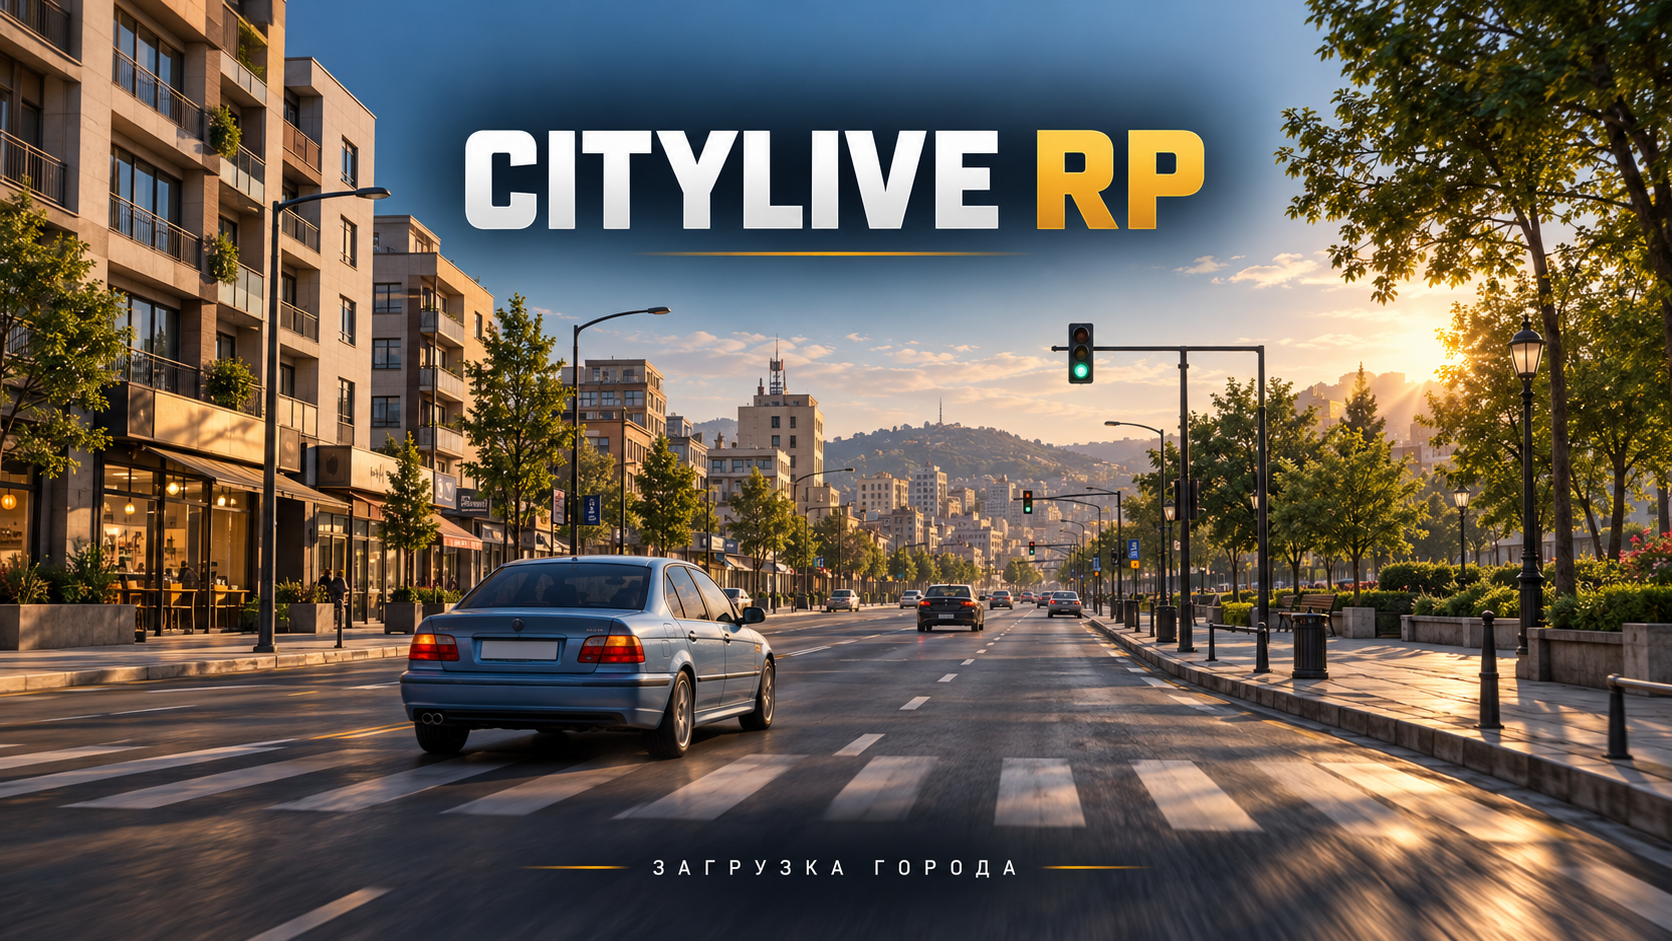
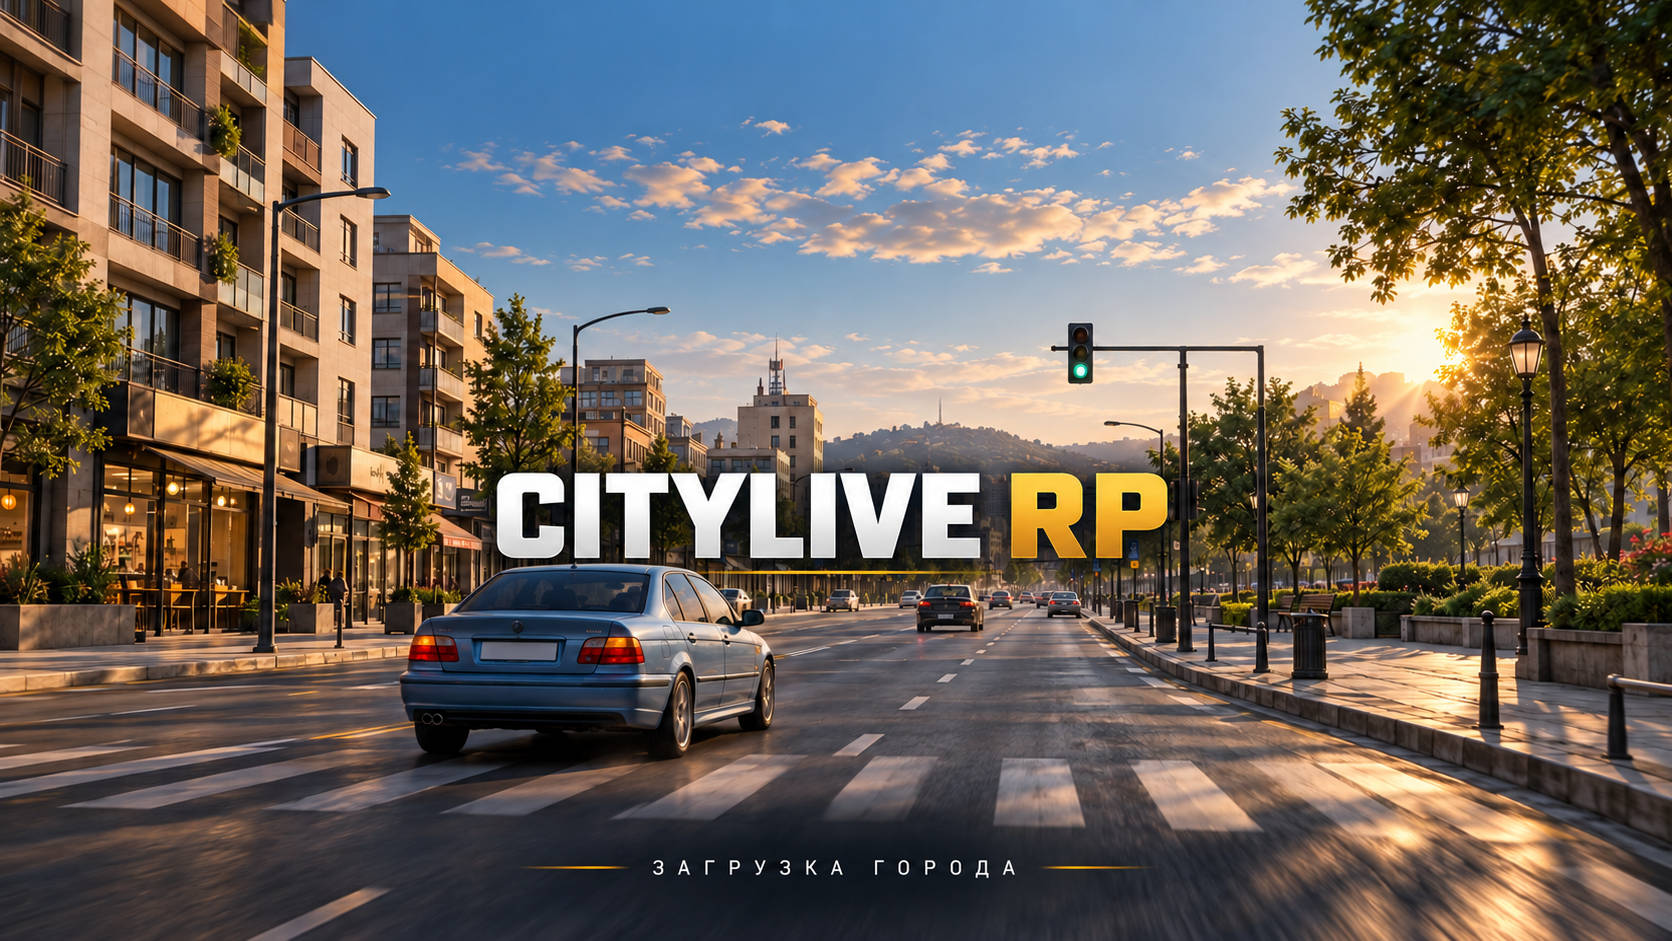
Polish launch title, proportional city steering and ambient lighting for Android 1.2.1

diff --git a/Scripts/UpdatePoliceDistrictLighting.py b/Scripts/UpdatePoliceDistrictLighting.py
@@ -1,0 +1,50 @@
+"""Update existing city lighting without reimporting geometry or materials."""
+import gc
+import json
+import os
+from pathlib import Path
+import re
+import sys
+import unreal
+sys.path.insert(0,str(Path(__file__).parent))
+from PoliceDistrictLighting import configure_sun, configure_sky, REVISION
+
+project=Path(unreal.Paths.convert_relative_path_to_full(unreal.Paths.project_dir()))
+token=os.environ['CITYLIVE_POLISH_TOKEN']
+if not re.fullmatch(r'[0-9_]+',token):raise RuntimeError('Invalid update token')
+path=(project/'Saved/ModernCityMap.txt').read_text(encoding='utf-8').strip()
+state_file=project/'Saved/CityV11.json'
+state=json.loads(state_file.read_text(encoding='utf-8'))
+if state.get('source')!='PoliceDistrict' or state.get('map')!=path or not re.fullmatch(r'/Game/CityLiveMaps/ModernCity/Run_[0-9_]+/CityLive_ModernCity',path):
+    raise RuntimeError('Install the new district using ImportPoliceDistrict.cmd first')
+ini=project/'Config/DefaultEngine.ini'
+config=ini.read_text(encoding='utf-8')
+for key in ('GameDefaultMap','EditorStartupMap'):
+    pattern=r'^'+key+r'=[^\r\n]*'
+    if len(re.findall(pattern,config,flags=re.MULTILINE))!=1:raise RuntimeError('Missing startup key '+key)
+    config=re.sub(pattern,key+'='+path+'.CityLive_ModernCity',config,flags=re.MULTILINE)
+backup=path.rsplit('/',1)[0]+'/CityLive_BeforePolish_'+token
+library=unreal.EditorAssetLibrary
+copy=library.duplicate_asset(path,backup)
+if not copy or not library.save_loaded_asset(copy,only_if_is_dirty=False):raise RuntimeError('Cannot back up city')
+del copy
+gc.collect()
+levels=unreal.get_editor_subsystem(unreal.LevelEditorSubsystem)
+if not levels.load_level(path):raise RuntimeError('Cannot load active city')
+actors=unreal.get_editor_subsystem(unreal.EditorActorSubsystem).get_all_level_actors()
+suns=[a for a in actors if isinstance(a,unreal.DirectionalLight)]
+skies=[a for a in actors if isinstance(a,unreal.SkyLight)]
+if not suns or not skies:raise RuntimeError('City lights missing')
+for a in suns:configure_sun(a.light_component)
+for a in skies:
+    configure_sky(a.light_component)
+    a.light_component.recapture_sky()
+if not levels.save_current_level():raise RuntimeError('Cannot save lighting')
+ini.write_text(config,encoding='utf-8')
+state['lighting_revision']=REVISION
+state['lighting_backup']=backup
+temporary=state_file.with_suffix('.tmp');temporary.write_text(json.dumps(state,indent=2),encoding='utf-8');temporary.replace(state_file)
+folder=project/'Saved/PoliceDistrictPolish'/token
+folder.mkdir(parents=True,exist_ok=True)
+(folder/'complete.ok').write_text(path,encoding='utf-8')
+unreal.log('CITYLIVE_LIGHTING_READY shadows=enabled ambient=2.2')

diff --git a/Scripts/ImportPoliceDistrict.py b/Scripts/ImportPoliceDistrict.py
@@ -14,6 +14,7 @@ from PoliceDistrictPolicy import validate_package, package_file, imported_kind
 from CityPbrMaterials import build_materials, assign_materials
 from CitySpawnSearch import find_open_spawn
 from CityMobileSky import install_mobile_sky
+from PoliceDistrictLighting import configure_sun, configure_sky, REVISION
 
 
 def atomic(path,text):
@@ -130,14 +131,16 @@ def main():
     world.get_world_settings().set_editor_property('default_game_mode',mode)
     sun=actors.spawn_actor_from_class(unreal.DirectionalLight,unreal.Vector(0,0,6000),unreal.Rotator(-38,-35,0))
     sun.light_component.set_editor_property('mobility',unreal.ComponentMobility.MOVABLE)
-    sun.light_component.set_editor_property('intensity',10.0)
+    configure_sun(sun.light_component)
     sky=actors.spawn_actor_from_class(unreal.SkyLight,unreal.Vector(0,0,5000))
     sky.light_component.set_editor_property('mobility',unreal.ComponentMobility.MOVABLE)
     sky.light_component.set_editor_property('real_time_capture',False)
+    configure_sky(sky.light_component)
     install_mobile_sky(root,actors)
     sky.light_component.recapture_sky()
     if not levels.save_current_level():raise RuntimeError('Cannot save district map')
     summary={'version':'1.1.2','graphics_baseline':'v1','mobile_sky':True,'map':map_path,
+             'lighting_revision':REVISION,
              'baseline_map':map_path,'previous_map':previous['map'],'source':'PoliceDistrict',
              'package_hash':hashlib.sha256((package/'manifest.json').read_bytes()).hexdigest(),
              'source_hash':manifest['source_blend_sha256'],'triangles':manifest['triangles']}

diff --git a/Source/CityLiveRP/CitySedanDynamics.h b/Source/CityLiveRP/CitySedanDynamics.h
@@ -22,12 +22,15 @@ constexpr float DirectionChangeSpeed = 10.f;
 inline float YawRateRadians(float Steering, float Speed)
 {
     constexpr float DegreesToRadians = .01745329252f;
-    const float LowSpeedRate = std::clamp(Steering, -1.f, 1.f) * 55.f * DegreesToRadians *
+    const float LowSpeedRate = 65.f * DegreesToRadians *
         std::clamp(Speed / 350.f, -1.f, 1.f);
-    // Bound requested lateral acceleration to about 0.6 g. A fixed yaw rate
-    // at top speed asks for several g and makes grip and steering fight.
-    const float Limit = 600.f / std::max(std::abs(Speed), 350.f);
-    return std::clamp(LowSpeedRate, -Limit, Limit);
+    // Allow slightly tighter urban turns, tapering back to the original 0.6 g
+    // bound at top speed so grip and steering do not fight.
+    const float HighwayBlend = std::clamp((std::abs(Speed) - 1500.f) / 1500.f, 0.f, 1.f);
+    const float Limit = (680.f - 80.f * HighwayBlend) / std::max(std::abs(Speed), 350.f);
+    // Apply the stick after the speed limit: a small touch stays a small turn,
+    // instead of reaching full cornering force prematurely at high speed.
+    return std::clamp(Steering, -1.f, 1.f) * std::clamp(LowSpeedRate, -Limit, Limit);
 }
 inline float AdvanceSpeed(float Speed, bool DriverPresent, bool Throttle, bool Brake, float DeltaTime)
 {

diff --git a/Tests/CitySedanDynamicsTest.cpp b/Tests/CitySedanDynamicsTest.cpp
@@ -9,12 +9,17 @@ int main()
     for (float Speed : {0.f, 100.f, 350.f, 1000.f, 2000.f, 3000.f, -400.f})
     {
         const float Rate = CityLiveDriving::YawRateRadians(1.f, Speed);
-        assert(std::abs(Rate * Speed) <= 600.01f);
+        assert(std::abs(Rate * Speed) <= 680.01f);
         assert(std::abs(Rate + CityLiveDriving::YawRateRadians(-1.f, Speed)) < .0001f);
         assert(CityLiveDriving::YawRateRadians(0.f, Speed) == 0.f);
         assert(Rate * Speed >= 0.f);
     }
     assert(CityLiveDriving::YawRateRadians(1.f, 3000.f) < CityLiveDriving::YawRateRadians(1.f, 1000.f));
+    assert(std::abs(CityLiveDriving::YawRateRadians(1.f, 3000.f)*3000.f) <= 600.01f);
+    assert(CityLiveDriving::YawRateRadians(1.f,350.f) > 1.1f);
+    for (float Speed : {-400.f,350.f,1000.f,3000.f})
+        assert(std::abs(CityLiveDriving::YawRateRadians(.1f,Speed) -
+            .1f*CityLiveDriving::YawRateRadians(1.f,Speed)) < .00001f);
     float SlowFps = 0.f, FastFps = 0.f;
     for (int I = 0; I < 60; ++I) SlowFps = AdvanceSpeed(SlowFps, true, true, false, 1.f / 30.f);
     for (int I = 0; I < 240; ++I) FastFps = AdvanceSpeed(FastFps, true, true, false, 1.f / 120.f);

diff --git a/Tests/PoliceDistrictImportTest.py b/Tests/PoliceDistrictImportTest.py
@@ -83,6 +83,7 @@ class ImportTest(unittest.TestCase):
             LevelEditorSubsystem='levels',EditorActorSubsystem='actors',UnrealEditorSubsystem='world',
             get_editor_subsystem=lambda key:{'levels':self.levels,'actors':actor_api,'world':world_api}[key],
             StaticMeshActor=Actor,PlayerStart='start',DirectionalLight='sun',SkyLight='sky',Vector=Vec,Rotator=lambda *a:a,
+            LinearColor=lambda *a:a,
             ComponentMobility=types.SimpleNamespace(STATIC=0,MOVABLE=1),load_class=lambda *a:object(),
             SystemLibrary=types.SimpleNamespace(line_trace_single=trace,sphere_trace_single=lambda *a:None),
             TraceTypeQuery=types.SimpleNamespace(TRACE_TYPE_QUERY1=0),DrawDebugTrace=types.SimpleNamespace(NONE=0),log=lambda *a:None)

diff --git a/Source/CityLiveRP/CitySedan.cpp b/Source/CityLiveRP/CitySedan.cpp
@@ -193,7 +193,7 @@ void ACitySedan::UpdateImportedWheels(float DeltaTime)
         else
         {
             const bool bFront = Bone.Key == FName(TEXT("Wheel_Front_Left")) || Bone.Key == FName(TEXT("Wheel_Front_Right"));
-            Rotation = FQuat(FVector::UpVector, FMath::DegreesToRadians(bFront ? SmoothedSteering * 28.f : 0.f)) *
+            Rotation = FQuat(FVector::UpVector, FMath::DegreesToRadians(bFront ? SmoothedSteering * 34.f : 0.f)) *
                 FQuat(FVector::RightVector, FMath::DegreesToRadians(WheelRollDegrees));
         }
         BonePose.SetRotation((Rotation * Bone.Value.GetRotation()).GetNormalized());

diff --git a/Scripts/PoliceDistrictLighting.py b/Scripts/PoliceDistrictLighting.py
@@ -1,0 +1,16 @@
+"""Ambient fill for readable walls/shadows; keep directional shadows enabled."""
+import unreal
+
+REVISION=1
+
+
+def configure_sun(component):
+    component.set_editor_property('intensity',10.0)
+    component.set_editor_property('cast_shadows',True)
+    component.set_editor_property('light_source_angle',3.0)
+
+
+def configure_sky(component):
+    component.set_editor_property('intensity',2.2)
+    component.set_editor_property('lower_hemisphere_is_solid_color',True)
+    component.set_editor_property('lower_hemisphere_color',unreal.LinearColor(.18,.21,.25,1))

diff --git a/Docs/DistrictPolish.md b/Docs/DistrictPolish.md
@@ -1,0 +1,35 @@
+# 1.2.1: заставка, руление и освещение
+
+1. Закройте Unreal. Обновите ветку в GitHub Desktop: Fetch origin → Pull origin.
+   При конфликте DefaultEngine.ini: Branch → Stash All Changes, затем Pull.
+2. Запустите UpdateDistrictPolish.cmd. Он собирает код и обновляет свет в
+   установленном районе. FBX/текстуры повторно не импортируются. Карта сохраняется
+   в резервную копию CityLive_BeforePolish_<номер> перед изменением освещения.
+3. После «Готово» проверьте через BuildAndOpen.cmd. Затем закройте Unreal и
+   запустите BuildAndroidV1Shipping.cmd. Установите APK 1.2.1-test (StoreVersion=6)
+   поверх прежней игры с той же подписью. ImportPoliceDistrict.cmd повторять не нужно.
+
+Заставка: CITYLIVE RP перемещена в центральную безопасную область над синей
+машиной. Ресурсы landscape/portrait и downloadimage обновлены вместе.
+
+Руление: максимальный запрос на малой скорости 65°/с вместо 55°/с. Визуальный
+поворот передних колёс 34° вместо 28°. Городской предел бокового ускорения
+увеличен с 600 до 680 см/с² и плавно возвращается к 600 на максимальной скорости.
+Небольшое отклонение джойстика применяется после ограничения по скорости, поэтому
+10% стика остаются 10% запроса, а не достигают преждевременно полного поворота.
+Сглаживание ввода и физика подвески сохраняются.
+
+Освещение: тени направленного света остаются включёнными. Skylight получает
+интенсивность 2.2 и светлый нижний полупространственный цвет вместо чёрного.
+Так усиливается окружающий свет в тенях и на стенах. Материалы домов, дальность
+прорисовки и RendererSettings не меняются. Эффект на далёких фасадах необходимо
+проверить на устройстве: без снимка нельзя исключить и другие причины затемнения.
+
+Новые импорты сразу получают этот свет. Для существующей карты APK-проверка
+требует lighting_revision=1. Логи обновления: Saved/PoliceDistrictPolish/<номер>/
+Build.log и Import.log. Текущая карта после Pull восстанавливается в startup keys.
+
+Проверены C++-расчёты лимита руления, малые отклонения на разных скоростях,
+симметрия и прежние переходы педалей; проверки импорта с подменой Unreal API.
+Unreal C++, реальная управляемость, свет и кадрирование заставки на телефоне
+в облаке не проверялись. Окончательную оценку делаем после установки APK.

diff --git a/Docs/PoliceDistrict.md b/Docs/PoliceDistrict.md
@@ -11,7 +11,7 @@
 3. Запустите BuildAndOpen.cmd для проверки в редакторе.
 4. Закройте Unreal и запустите BuildAndroidV1Shipping.cmd. Установите полученный
    APK из новой папки Releases/AndroidV1/Shipping/<номер> поверх установленной
-   игры с прежней подписью. Версия 1.2.0-test, StoreVersion=5.
+   игры с прежней подписью. Версия 1.2.1-test, StoreVersion=6.
 
 Blender, повторная обработка старого города, RestoreCityV1 и UpdateCityV11
 для этой установки не нужны. SDK/NDK/JAVA_HOME остаются прежними.
@@ -77,3 +77,6 @@ blender -b Assets/Maps/PoliceDistrictRealistic/CityLive_PoliceDistrict_Realistic
 
 `--reuse-materials` разрешён только при неизменном SHA256 исходного .blend;
 он пересобирает геометрию/группы коллизий, используя предыдущие запечённые карты.
+
+Обновление установленного района до 1.2.1: UpdateDistrictPolish.cmd, затем
+BuildAndroidV1Shipping.cmd. Повторный импорт города не требуется. Docs/DistrictPolish.md.
